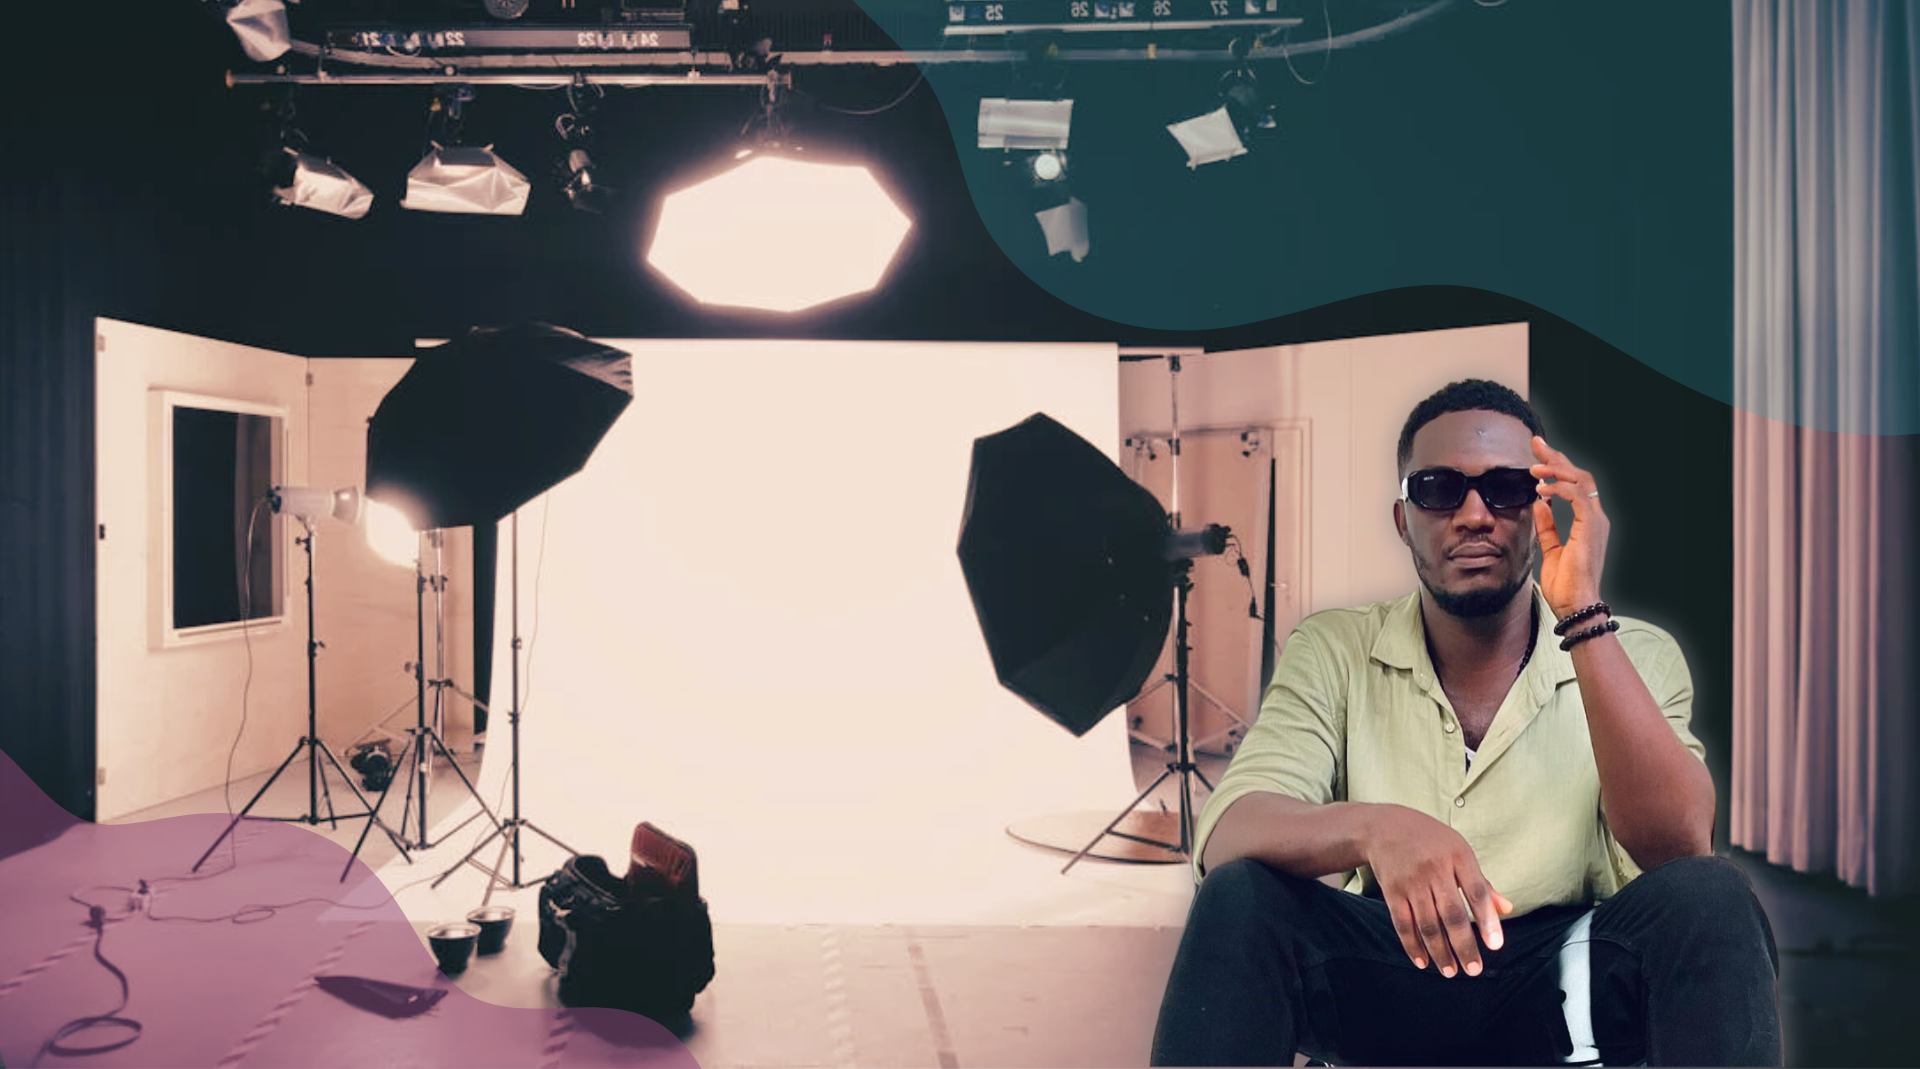
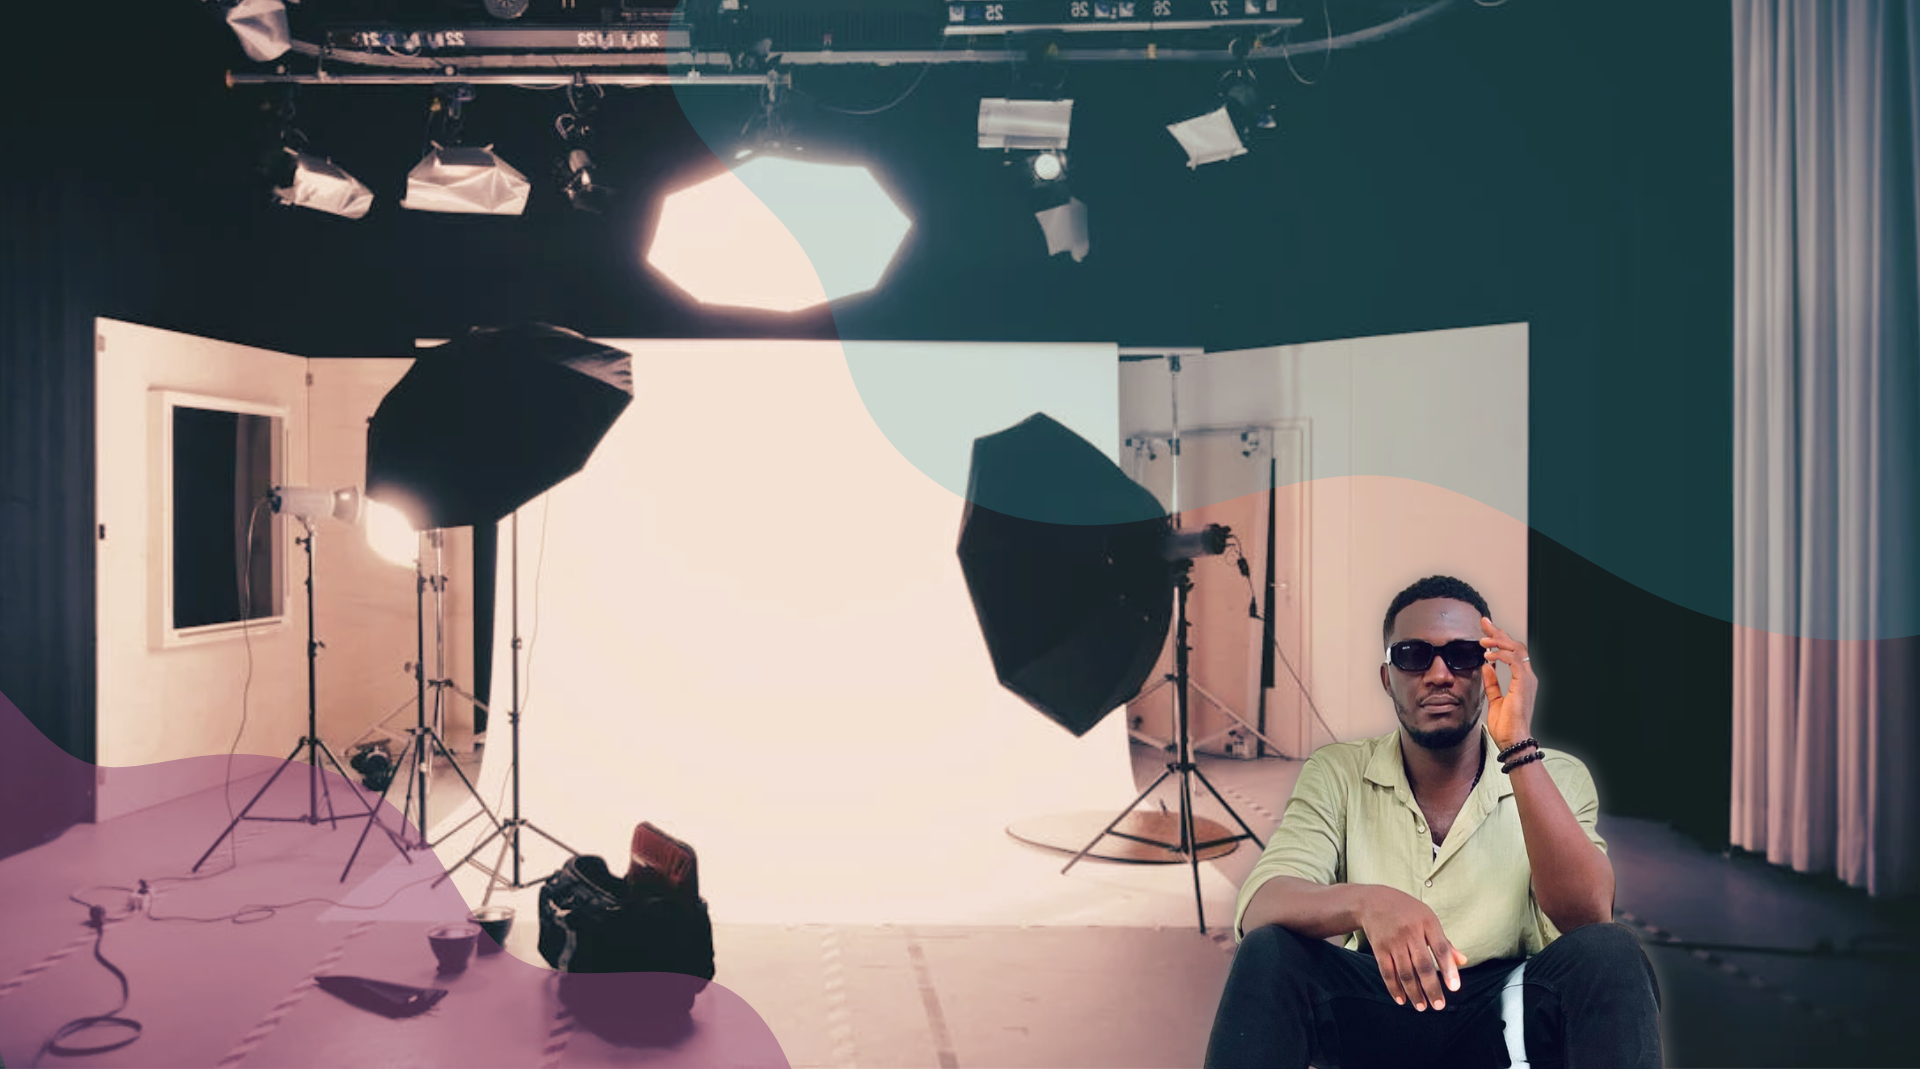
header and slider updates

Changed region(s): [[0.3438, 0.0, 1.0, 1.0], [0.0, 0.6483, 0.4375, 1.0]]

diff --git a/index.html b/index.html
@@ -25,7 +25,7 @@
     <div class="header-bar">
         <div class="container-fluid">
             <div class="row align-items-center">
-                <div class="col-10 col-lg-2 order-lg-1">
+                <div class="col-10 col-lg-3 order-lg-1">
                     <div class="site-branding">
                         <div class="site-title">
                             <a href="#"><img src="images/director-chuzih-logo.png" alt="logo"></a>
@@ -33,7 +33,7 @@
                     </div><!-- .site-branding -->
                 </div><!-- .col -->
 
-                <div class="col-2 col-lg-7 order-3 order-lg-2">
+                <div class="col-2 col-lg-9 order-3 order-lg-2">
                     <nav class="site-navigation">
                         <div class="hamburger-menu d-lg-none">
                             <span></span>
@@ -47,15 +47,13 @@
                             <li><a href="#">About us</a></li>
                             <li><a href="#">Events</a></li>
                             <li><a href="#">News</a></li>
-                            <li><a href="#">Contact</a></li>
+                            <li>
+                                <div class="buy-tickets">
+                                    <a class="btn gradient-bg" href="#">Contact</a>
+                                </div>
+                            </li>
                         </ul>
                     </nav><!-- .site-navigation -->
-                </div><!-- .col -->
-
-                <div class="col-lg-3 d-none d-lg-block order-2 order-lg-3">
-                    <div class="buy-tickets">
-                        <a class="btn gradient-bg" href="#">Buy Tickets</a>
-                    </div><!-- .buy-tickets -->
                 </div><!-- .col -->
             </div><!-- .row -->
         </div><!-- .container-fluid -->

diff --git a/style.css b/style.css
@@ -128,7 +128,8 @@ a:hover, a:active {
     left: 0;
     z-index: 99;
     width: 100%;
-    padding: 14px 0;
+    padding: 10px 0;
+    background-color: hsl(0, 0%, 0%, 0.4);
 }
 
 /*
@@ -229,7 +230,7 @@ a:hover, a:active {
 .site-navigation ul {
     position: fixed;
     top: 0;
-    left: -320px;
+    right: 0px;
     z-index: 9999;
     width: 320px;
     max-width: 80%;
@@ -242,13 +243,13 @@ a:hover, a:active {
 }
 
 .site-navigation.show ul {
-    left: 0;
+    right: 0;
 }
 
 .site-navigation ul li {
     display: block;
-    padding: 10px 16px;
-    font-size: 16px;
+    padding: 10px 40px;
+    font-size: 20px;
     font-weight: bold;
     letter-spacing: 0.02rem;
     text-transform: uppercase;
@@ -312,7 +313,8 @@ a:hover, a:active {
 /*--------------------------------------------------------------
 # Hero Section
 --------------------------------------------------------------*/
-.hero-slider {
+.swiper-slide {
+    background-position: bottom right !important;
 }
 
 .hero-content {
